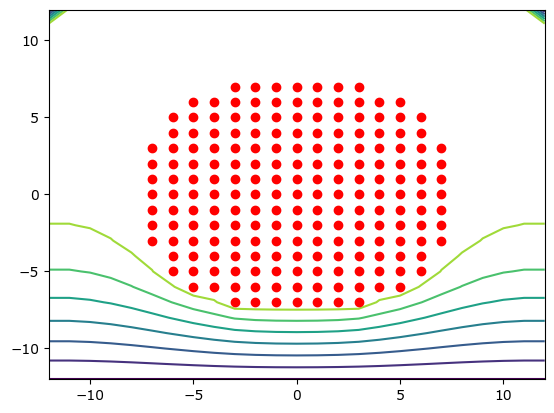
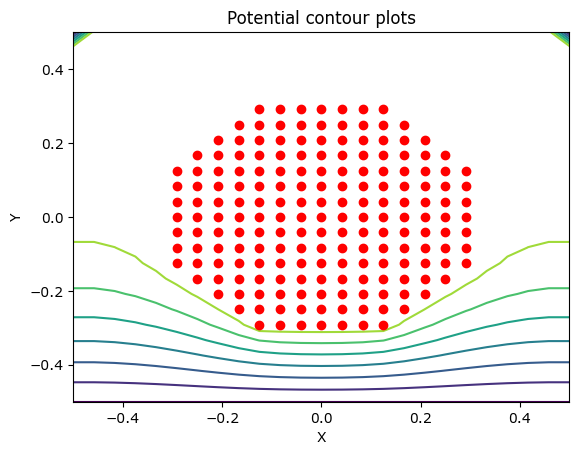
done deal

diff --git a/week5/EE19B123_week5.py b/week5/EE19B123_week5.py
@@ -10,9 +10,9 @@ import matplotlib.pyplot as plt
 import argparse
 import mpl_toolkits.mplot3d.axes3d as p3
 import os
-from pylab import contour, plot
+from pylab import contour, plot, contourf, cm
 import pylab
-os.chdir('/home/tanay/Documents/sem4/EE2703/week5')
+os.chdir('/home/tanay/Documents/sem4/EE2703/week5')#TODO remove this befor submitting
 
 #########################
 #creating an imgs directory to store all png files
@@ -35,22 +35,18 @@ def add_stuf(function):
             if kwargs.get('title'):
                 plt.title(kwargs['title'])
             if kwargs.get('legend'):
-                plt.legend(('Calculated Error','Fit 1 (all iterations)','Fit 2 (>500 iterations)'))
+                plt.legend(kwargs['label'], loc ='upper right')
             function(*args, **kwargs)
-            if not kwargs.get('not_save'):
-                plt.savefig(kwargs['path']+'.png',bbox_inches='tight')
-                print('File saved at {}'.format(kwargs['path']))
-                plt.clf()
+            
+            plt.savefig(kwargs['path']+'.png',bbox_inches='tight')
+            print('File saved at {}'.format(kwargs['path']))
+            plt.clf()
         return fcall
 
 class Plot:
     '''
     Class for plotting various types of graphs namely
-    semilogy() 
-    loglog()
-    plot()
-    plot3D()
-    contour()
+    semilogy() , loglog() , plot() , plot3D(), contour(), quiver()
     '''
     def __init__(self):
         super(Plot, self).__init__()
@@ -64,19 +60,26 @@ class Plot:
         plt.loglog(x,y,kwargs['marker'],ms=4, label = kwargs['label'])
 
     @add_stuf
+    def plot(self, x, y, **kwargs):
+        plt.plot(x,y,kwargs['marker'],ms=4, label = kwargs['label'])
+
+    @add_stuf
     def plot3D(self,x,y,z, **kwargs):
         fig = plt.figure() 
         ax=p3.Axes3D(fig) 
-        ax.plot_surface(y, x, z.T, rstride=1, cstride=1, cmap=plt.cm.jet)
+        ax.plot_surface(x, y, z, rstride=1, cstride=1, cmap=cm.jet,antialiased=False)
         ax.set_zlabel(kwargs['zlabel'])
+        ax.set_title(kwargs['title'])
+        ax.set_xlabel(kwargs['ylabel'])
+        ax.set_ylabel(kwargs['xlabel'])
 
+    @add_stuf
     def plotMany(self, x, y,count, **kwargs):
+        fig = plt.figure()
+        ax = fig.add_subplot(111)
         for i in range(count):
-            if i <count-1:
-                kwargs['not_save'] = True
-            else:
-                kwargs['not_save'] = False
-            self.semilogy(x[i],y[i],**kwargs)
+            plt.semilogy(x[i],y[i],kwargs['marker'][i],ms = 4, label =kwargs['label'][i])
+        ax.legend()
 
     @add_stuf
     def contour(self, X, Y,phi, **kwargs):
@@ -94,7 +97,8 @@ class Plot:
         y = kwargs.get('y')
         fig,ax = plt.subplots()
         fig = ax.quiver(Y,X[::-1],jx,jy, scale = 5)
-        plot(x[ids[0]],y[ids[1]],'ro')
+        ax.set_title(kwargs['title'])
+        plt.plot(x[ids[0]],y[ids[1]],'ro')
     
 
 
@@ -126,10 +130,12 @@ class PotentialSolver(Plot):
         Function to setup the grid
         '''
         phi = np.zeros((self.Ny,self.Nx))
-        self.x1 = np.linspace(-(self.Ny-1)/2,(self.Ny-1)/2,self.Ny)
-        self.y1 = np.linspace(-(self.Nx-1)/2,(self.Nx-1)/2,self.Nx)
+        #self.x1 = np.linspace(-(self.Ny-1)/2,(self.Ny-1)/2,self.Ny)
+        #self.y1 = np.linspace(-(self.Nx-1)/2,(self.Nx-1)/2,self.Nx)
+        self.x1 = np.linspace(-0.5, 0.5, self.Ny)
+        self.y1 = np.linspace(-0.5, 0.5, self.Nx)
         self.Y,self.X = np.meshgrid(self.y1,self.x1)
-        id = np.where((self.X**2 + self.Y**2) < self.radius*self.radius)
+        id = np.where((self.X**2 + self.Y**2) < (self.radius/self.Nx)**2)
         phi[id] = 1.0
         return phi, id
 
@@ -153,7 +159,7 @@ class PotentialSolver(Plot):
 
     def trainer(self, epochs):
         '''
-        fucntion used to iterate and compute the potential
+        function used to iterate and compute the potential
         epochs: number of times to iterate
         '''
         error = np.empty(epochs)
@@ -182,9 +188,9 @@ class PotentialSolver(Plot):
         return A*np.exp(B*x)
          
 
-    def cuurents(self):
+    def curents(self):
         '''
-        fucntions computes the current vectors ie: Jx , Jy
+        function computes the current vectors ie: Jx , Jy
         '''
         self.Jx = np.zeros((self.Ny,self.Nx))
         self.Jy = np.zeros((self.Ny,self.Nx))
@@ -195,6 +201,31 @@ class PotentialSolver(Plot):
         return self.Jx, self.Jy
 
 
+class Temperature(PotentialSolver): #TODO add temperature
+    def __init__(self,Nx,Ny,R):
+        super(Temperature, self).__init__(Nx,Ny,R)
+        self.temp= 300 * np.ones((self.Nx,self.Ny), dtype=float)
+
+
+    def update(self,phi):
+        phi[1:-1,0]=phi[1:-1,1] # Left Boundary
+        phi[1:-1,-1]=phi[1:-1,-2] # Right Boundary
+        phi[0,1:-1]=phi[1,1:-1] # Top Boundary
+        phi[-1,1:-1] =300 # ground
+        phi[self.ids]=300.0 #wire is at 300K
+        return phi
+
+    #laplaces equation
+    def laplace(self,temp,Jx,Jy):
+        temp[1:-1,1:-1]=0.25*(temp[1:-1,0:-2]+ temp[1:-1,2:]+ temp[0:-2,1:-1] + temp[2:,1:-1]+(Jx[1:-1,1:-1])**2 +(Jy[1:-1,1:-1])**2)
+        return temp
+
+    def __call__(self,epochs,Jx,Jy):
+        for _ in range(epochs):
+            self.temp = self.laplace(self.temp,Jx,Jy)
+            self.temp = self.update(self.temp)
+
+
 
 if __name__ =='__main__':
 
@@ -203,7 +234,7 @@ if __name__ =='__main__':
     parser.add_argument('--Nx',default=25,required = True, type=int,help='Size along the x axis')
     parser.add_argument('--Ny',default=25,required = True , type=int,help='Size along the y axis')
     parser.add_argument('--radius',default=8,required = True, type=float,help='Radius of central lead')
-    parser.add_argument('--Niter',default=1000,type=int,help='Number of iterations to perform', )
+    parser.add_argument('--Niter',default=1000,required = True ,type=int,help='Number of iterations to perform', )
     args = parser.parse_args()
 
     # create the plate instance
@@ -211,13 +242,19 @@ if __name__ =='__main__':
 
     #Task 0
     plate.contour(plate.X, plate.Y, plate.phi, cmap=pylab.cm.get_cmap("autumn"), \
-        path ='imgs/plate_plot',\
-        ids = plate.ids, \
-        x = plate.x1,\
-        y = plate.y1)
+        path ='imgs/plate_plot',ids = plate.ids,x = plate.x1,y = plate.y1,xlabel ='X',ylabel ='Y',title ='Potential plot(At start)')
 
     #compute the potential function
     loss = plate.trainer(args.Niter)
+
+    #Task 1.0
+    plate.plot(range(1000), loss, \
+        marker = 'r-',\
+        xlabel = 'iterations',\
+        ylabel = 'error',\
+        path = 'imgs/figure0',\
+        title ='Error Plot',\
+        label = 'plot')
     
     #Task 1.1
     plate.semilogy(range(1000)[::50], loss[::50], \
@@ -225,6 +262,7 @@ if __name__ =='__main__':
         xlabel = 'iterations',\
         ylabel = 'error(log scale)',\
         path = 'imgs/figure1',\
+        title ='Error plot',\
         label = 'plot')
     #Task 1.2
     plate.loglog(range(1000)[::50], loss[::50],\
@@ -232,44 +270,68 @@ if __name__ =='__main__':
         xlabel = 'iterations(log scale)',\
         ylabel = 'error(log scale)',\
         path = 'imgs/figure2',\
+        title ='Error plot' ,\
         label = 'plot')
 
     A,B = plate.errorFit(range(args.Niter), loss)
     A2,B2 = plate.errorFit(range(args.Niter)[500:],loss[500:])
 
-    #Task 2.1 TODO add  multiple plots cuz here u have to plot 3 in a graph
-    l = range(1000)[::50]
+    print('The time constant of decay is ',-1.0/B2)
+
+    #Task 2
+    l = range(1000)
     plate.plotMany(\
-        [l]*3,\
-        [loss[::50],plate.fit(l, A,B) ,plate.fit(l , A2, B2)],\
+        [l[::50],l,l[500:]],\
+        [loss[::50],plate.fit(l, A,B) ,plate.fit(l[500:] , A2, B2)],\
         count = 3, \
-        marker = 'ro',\
+        marker = ['ro','b-','m-'],\
+        legend = True, \
         xlabel = 'iterations',\
         ylabel = 'error(log scale)',\
+        label =['True Error', 'Fit 1 (all iterations)','Fit 2 (>500 iterations)' ], \
         path = 'imgs/figure3')
 
-    #Task 3
+    #Task 3 , 3D potential plot
     plate.plot3D(plate.X, plate.Y, plate.phi, \
         path ='imgs/figure4', 
-        tile = 'The 3-D surface plot of the potential', 
+        title = 'The 3-D surface plot of the potential', 
         xlabel ='x',
         ylabel = 'y',
-        zlabel ='phi')
+        zlabel =r'$\phi$')
 
     #Task 4 , contour potential
     plate.contour(plate.X, plate.Y, plate.phi, cmap=pylab.cm.get_cmap("autumn"), \
         path ='imgs/contour_plot',\
         ids = plate.ids, \
         x = plate.x1,\
-        y = plate.y1 )
+        y = plate.y1 ,\
+        xlabel ='X',\
+        ylabel ='Y',\
+        title ='Potential contour plots')
 
-    #Task 5 , vetcor plot of currents 
-    jx, jy = plate.cuurents()
+    #Task 5 , vector plot of currents 
+    jx, jy = plate.curents()
     plate.quiver(plate.X, plate.Y, jx, jy,\
         path = 'imgs/quiver_plot',\
         x = plate.x1, \
         ids = plate.ids , \
-        y = plate.y1 )
+        y = plate.y1,\
+        xlabel = 'X',\
+        ylabel ='Y',\
+        title ='Current vecotors')
+
+    #Task 6, temperature plots
+    Temp_surface = Temperature(args.Nx,args.Ny,args.radius)
+
+    #training the function
+    Temp_surface(args.Niter,jx,jy)
+
+    Temp_surface.plot3D(plate.X, plate.Y, Temp_surface.temp,\
+    title ='Temperature Plot',
+    path ='imgs/temp',
+    xlabel = 'X',
+    ylabel ='Y',
+    zlabel ='Temperature')
 
 
 
